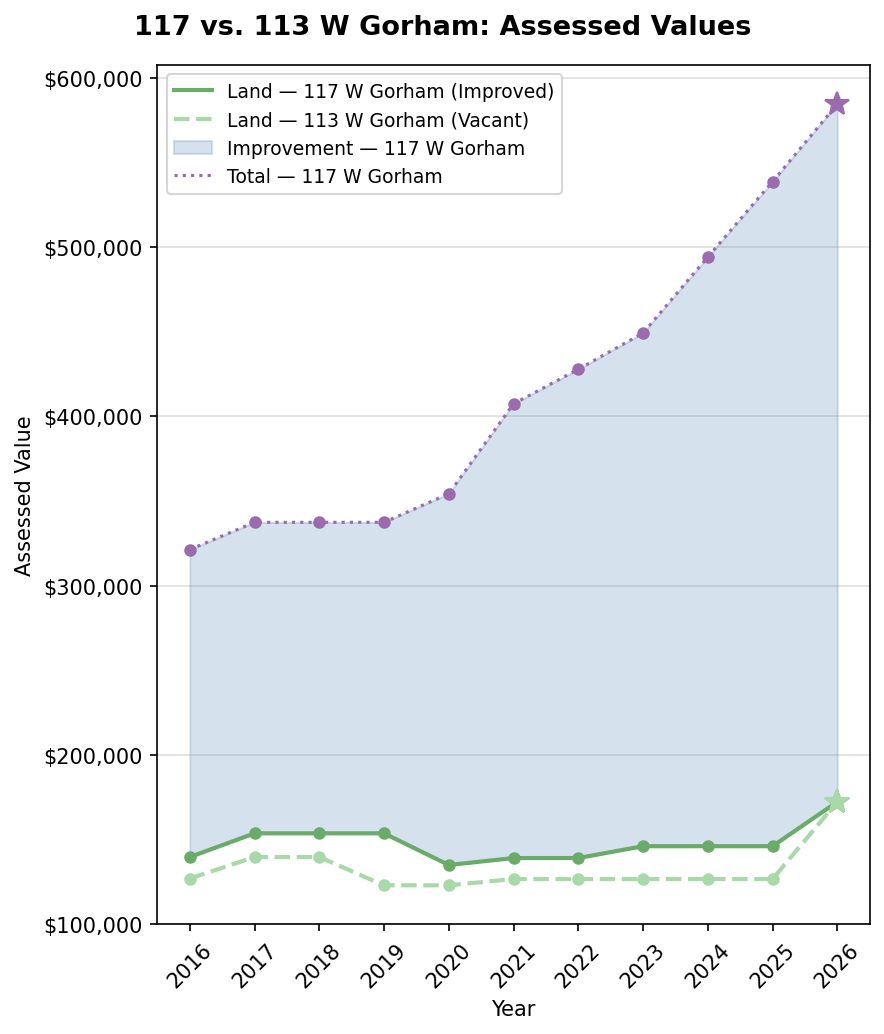
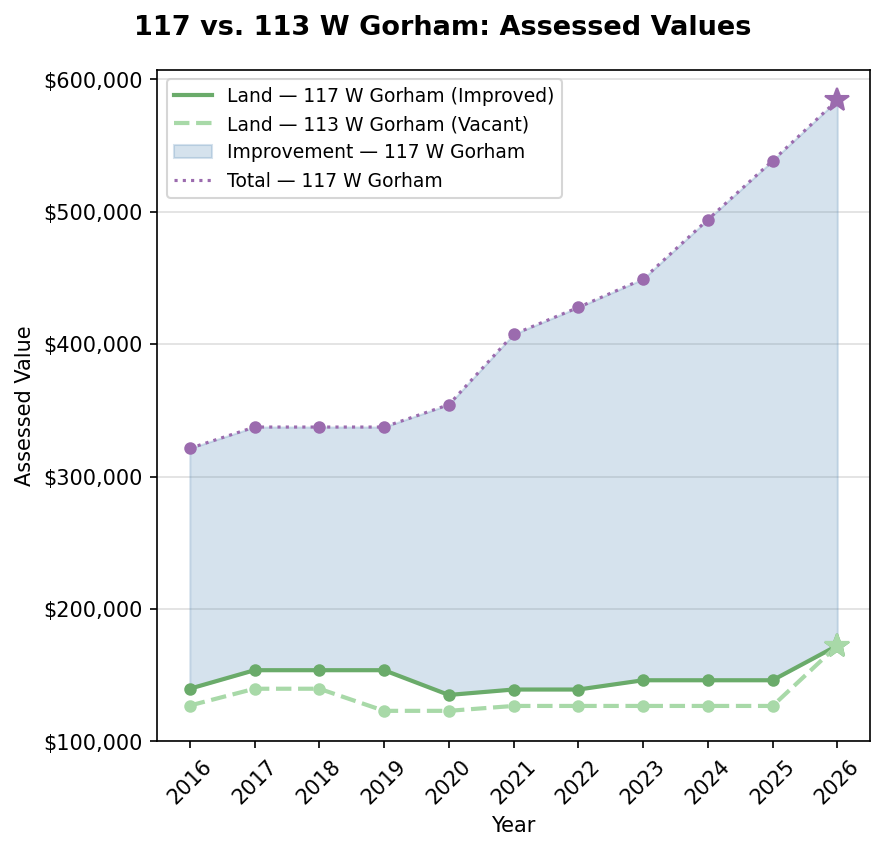
Adjust figure sizes in gorham_trend and my_house_trend; update substack_post with additional resource link

diff --git a/gorham_trend/gorham_trend.py b/gorham_trend/gorham_trend.py
@@ -157,7 +157,7 @@ land_117_2026 = float(df_117.loc[df_117["year"] == 2026, "land"].iloc[0])
 land_113_2026 = float(df_113.loc[df_113["year"] == 2026, "land"].iloc[0])
 
 # ── V1: Single overlay panel ─────────────────────────────────────────────────
-fig, ax = plt.subplots(figsize=(6, 7))
+fig, ax = plt.subplots(figsize=(6, 5.75))
 fig.suptitle("117 vs. 113 W Gorham: Assessed Values", fontsize=13, fontweight="bold")
 
 ax.plot(yrs, df_117["land"], color=COLOR_117, linewidth=2, label="Land — 117 W Gorham (Improved)")

diff --git a/my_house_trend/my_house_trend.py b/my_house_trend/my_house_trend.py
@@ -47,7 +47,7 @@ df = pd.concat([hist, df_2026], ignore_index=True)
 COLORS = {"land": "#6AAB6A", "improvement": "#5B8DB8", "total": "#9B6BAE"}
 LABELS = {"land": "Land Value", "improvement": "Improvement Value", "total": "Total Value"}
 
-fig, ax = plt.subplots(figsize=(6, 7))
+fig, ax = plt.subplots(figsize=(6, 5.75))
 fig.suptitle("My House", fontsize=14, fontweight="bold")
 
 years = df["year"].tolist()

diff --git a/substack_post.md b/substack_post.md
@@ -15,7 +15,7 @@ As a Georgist, this really excites me. I appreciate the assessor's office's cont
 
 ## Property Tax 101
 
-Most people assume that increasing property values result in higher property taxes, but it’s more complicated than that. First, the city sets a levy, which is the total amount to be raised by property taxes. (1) Once we have the levy, it’s split across all taxable parcels in the city based on the assessed value. Properties with higher value bear a high proportion of the levy and vice versa. So when you look at your new assessment, you need to understand how your property’s value increased relative to all other taxable property in the city. Think of it as your property having a slice of the levy pie. The last piece of the puzzle is the mill rate: divide the levy by the total value of assessed properties, then multiply by your property's value to get the tax bill.
+Most people assume that increasing property values result in higher property taxes, but it’s more complicated than that. First, the city sets a levy, which is the total amount to be raised by property taxes. (1) Once we have the levy, it’s split across all taxable parcels in the city based on the assessed value. Properties with higher value bear a high proportion of the levy and vice versa. So when you look at your new assessment, you need to understand how your property’s value increased relative to all other taxable property in the city. Think of it as your property having a slice of the levy pie. The last piece of the puzzle is the mill rate: divide the levy by the total value of assessed properties, then multiply by your property's value to get the tax bill. If you'd like to read more, I recommend this [post](https://stephnakhleh.substack.com/p/property-taxes-are-weird-and-complicated)!
 
 Above I mentioned that on average, property increased by 6.1% and my property value rose by 8.5%, so my slice of the pie increased this year compared to last year. Absent levy increases, I can expect my property taxes to rise by ~2%. This is fine by me because I love property taxes. If your property value increased by less than 6%, you might even see your taxes fall with levy increases.
 
